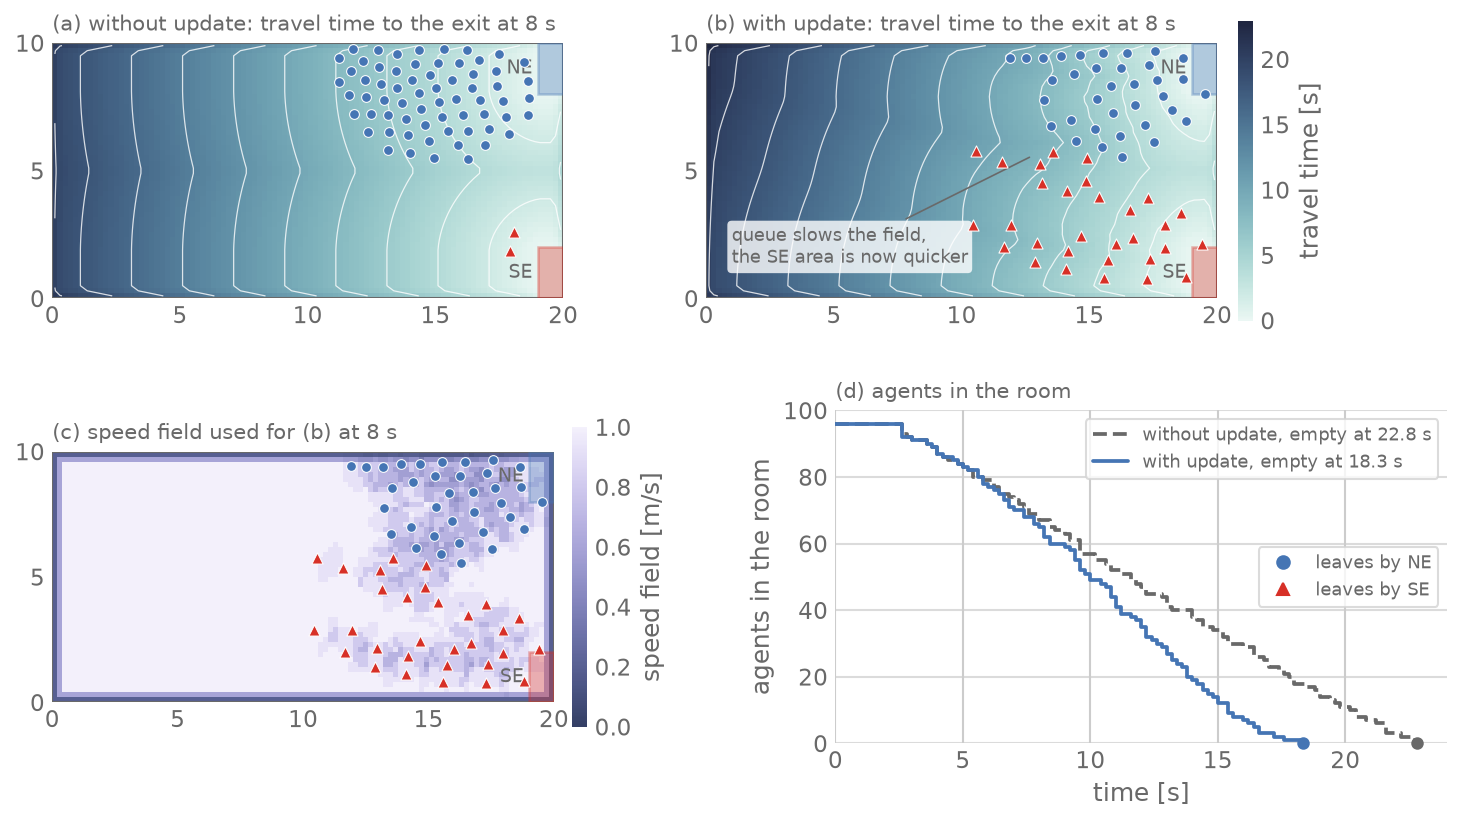
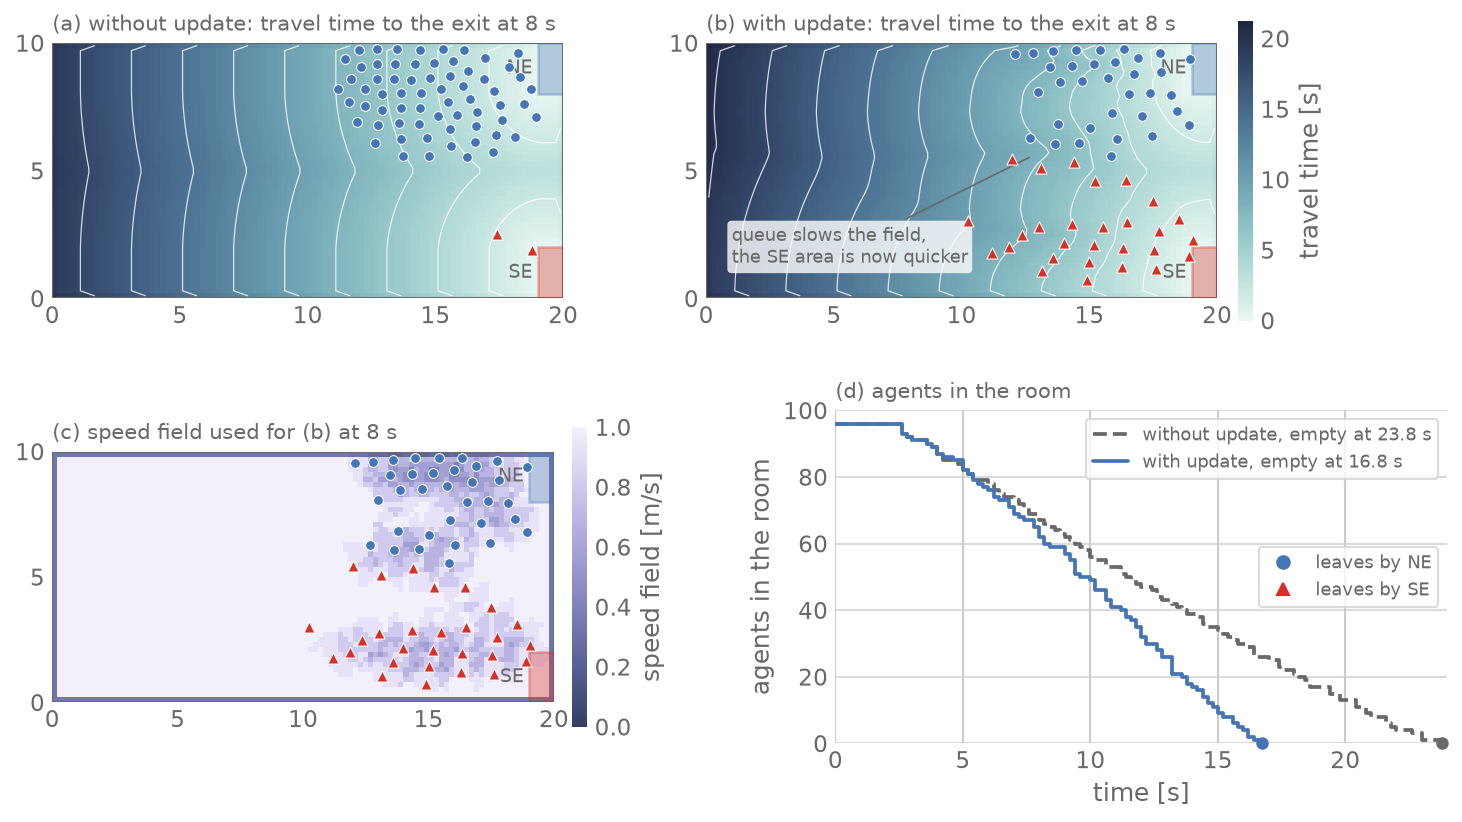
Interpolate the floor field direction (#1762)
* Interpolate the floor field direction

The direction was read from the cell the agent stands in. On the
centre line of a corridor narrower than twice the wall influence
radius the cells on either side point towards each other, so an agent
there changed direction on every step and lost a quarter of its speed
(discussion #1756).

Blend the directions of the four cell centres around the agent
bilinearly. Cells that are not walkable, have no finite time or belong
to the destination are left out; without any, the per-cell direction
is used as before.

directions() and direction() now agree at cell centres up to rounding
only, so their tests compare with a tolerance. The route test started
two agents mirrored about a lattice line; with a symmetric field they
meet head-on and block each other, so one start position moves.

* Default to a wall influence radius of 0.3 m

With a radius of 0.5 m the floor field leads to the centre line of any
passage narrower than 1 m, so a crowd uses a 1 m bottleneck almost in
single file. With 0.3 m, 100 agents pass it at about 1.47 /s instead
of 1.40 /s, and none gets stuck. The price is wall distance at corners
(discussion #1756).

The cell size stays at 0.2 m: 0.1 m cells cost four times the setup
time and memory.

The figures and numbers of the floor field article are regenerated
with the interpolated direction and this radius.

---------

diff --git a/libfloorfield/src/multi_region.rs b/libfloorfield/src/multi_region.rs
@@ -454,9 +454,11 @@ impl MultiRegionFloorfield {
     /// Which way to walk from (x, y) in `region` towards `dest`: a unit
     /// vector, or the zero vector once there.
     ///
-    /// * Downhill along the travel-time gradient, taken at the point's cell or,
-    ///   if that is an obstacle (next to a slanted wall), at the nearest
-    ///   walkable cell within two cells.
+    /// * Downhill along the travel-time gradient, blended bilinearly from the
+    ///   four cell centres around the point (`interpolated_direction`). If
+    ///   none of them counts or they cancel: taken at the point's cell or, if
+    ///   that is an obstacle (next to a slanted wall), at the nearest walkable
+    ///   cell within two cells.
     /// * Inside an area destination (a cell of one of its pieces): zero.
     /// * Inside the cell of a point destination: straight towards the point,
     ///   zero exactly on it.
@@ -480,6 +482,17 @@ impl MultiRegionFloorfield {
             .find(|s| s.region == region && s.cells.binary_search(&cell).is_ok())
             .map(|s| s.kind);
         let query = d.solution.as_ref().expect("solved above").query[region].as_deref();
+        if source.is_none() {
+            let in_source = |c: u32| {
+                d.sources
+                    .iter()
+                    .any(|s| s.region == region && s.cells.binary_search(&c).is_ok())
+            };
+            let blended = interpolated_direction(&self.regions[region], query, (x, y), &in_source);
+            if let Some(dir) = blended {
+                return Ok(dir);
+            }
+        }
         direction_at_cell(&self.regions[region], query, cell, source, (x, y))
             .ok_or_else(|| no_descent(region, (x, y), dest))
     }
@@ -1013,6 +1026,55 @@ fn direction_at_cell(
         return Some(unit(-gx, -gy));
     }
     steepest_descent(g, query, cell)
+}
+
+/// The downhill directions at the four cell centres around `p`, weighted
+/// bilinearly: at a cell border the direction changes smoothly instead of
+/// jumping from one cell's to the next's. Cells that are not walkable, have no
+/// finite time or belong to the destination are left out and the weights
+/// renormalised. `None` if no cell counts or the weighted directions cancel.
+///
+/// The four cells are never separated by a wall: a cell a wall runs through
+/// is not walkable, and a wall along a cell edge has its other side outside
+/// the region.
+fn interpolated_direction(
+    g: &RegionGrid,
+    query: Option<&[f32]>,
+    p: (f64, f64),
+    in_source: &dyn Fn(u32) -> bool,
+) -> Option<(f64, f64)> {
+    let query = query?;
+    let cs = g.grid.cell_size;
+    let fx = (p.0 - g.grid.origin[0]) / cs - 0.5;
+    let fy = (p.1 - g.grid.origin[1]) / cs - 0.5;
+    let (c0, r0) = (fx.floor(), fy.floor());
+    let (tx, ty) = (fx - c0, fy - r0);
+    let (mut sx, mut sy, mut sw) = (0.0, 0.0, 0.0);
+    for (dr, dc, w) in [
+        (0, 0, (1.0 - tx) * (1.0 - ty)),
+        (0, 1, tx * (1.0 - ty)),
+        (1, 0, (1.0 - tx) * ty),
+        (1, 1, tx * ty),
+    ] {
+        let (r, c) = (r0 as i64 + dr, c0 as i64 + dc);
+        if r < 0 || c < 0 || r >= i64::from(g.grid.height) || c >= i64::from(g.grid.width) {
+            continue;
+        }
+        let cell = r as u32 * g.grid.width + c as u32;
+        if !g.walkable(cell) || !query[cell as usize].is_finite() || in_source(cell) {
+            continue;
+        }
+        let centre = g.grid.cell_center(cell);
+        if let Some((dx, dy)) = direction_at_cell(g, Some(query), cell, None, centre) {
+            sx += w * dx;
+            sy += w * dy;
+            sw += w;
+        }
+    }
+    if sw <= 0.0 || sx.hypot(sy) <= 1e-6 * sw {
+        return None;
+    }
+    Some(unit(sx, sy))
 }
 
 /// The error for a `None` from `direction_at_cell`: a bug, reported rather
@@ -2020,8 +2082,23 @@ mod tests {
         );
     }
 
-    /// `directions` works on cells, `direction` on points: they must agree at
-    /// every cell centre, also next to a seam (halo cells hold finite values
+    /// On the centre line of a corridor narrower than twice the wall influence
+    /// radius the cells on either side point towards each other. Blended, they
+    /// lead along the corridor on both sides of the cell border.
+    #[test]
+    fn direction_is_continuous_across_a_cell_border() {
+        let mut ff = build(vec![region(rect(0., 0., 20., 1.))], vec![]).unwrap();
+        let dest = ff
+            .add_area_destination(&[piece(0, rect(18., 0., 19., 1.))])
+            .unwrap();
+        for y in [0.5 - 1e-9, 0.5 + 1e-9] {
+            let (dx, dy) = ff.direction(0, 5.1, y, dest).unwrap();
+            assert!(dx > 0.99 && dy.abs() < 1e-6, "y = {y}: ({dx}, {dy})");
+        }
+    }
+
+    /// `directions` works on cells, `direction` on points: they must agree
+    /// (up to rounding, `direction` blends) at every cell centre, also next to a seam (halo cells hold finite values
     /// but are obstacles) and inside each piece of an area destination.
     #[test]
     fn directions_match_direction_at_every_cell_centre_across_a_seam() {
@@ -2042,7 +2119,9 @@ mod tests {
                 for (cell, (d, t)) in (0u32..).zip(dirs.iter().zip(&tt)) {
                     if t.is_finite() {
                         let (x, y) = grid.cell_center(cell);
-                        assert_eq!(*d, ff.direction(region, x, y, dest).unwrap());
+                        let at = ff.direction(region, x, y, dest).unwrap();
+                        let off = (d.0 - at.0).hypot(d.1 - at.1);
+                        assert!(off < 1e-12, "cell {cell}: {d:?} vs {at:?}");
                     } else {
                         assert!(d.0.is_nan() && d.1.is_nan(), "cell {cell}: {d:?}");
                     }

diff --git a/libfloorfield/src/lib.rs b/libfloorfield/src/lib.rs
@@ -457,7 +457,9 @@ mod tests {
         for (cell, (d, t)) in (0u32..).zip(dirs.iter().zip(&tt)) {
             if t.is_finite() {
                 let (x, y) = grid.cell_center(cell);
-                assert_eq!(*d, ff.region_direction(0, pt(x, y), exit).unwrap());
+                let at = ff.region_direction(0, pt(x, y), exit).unwrap();
+                let off = (d.x - at.x).hypot(d.y - at.y);
+                assert!(off < 1e-12, "cell {cell}: {d:?} vs {at:?}");
             } else {
                 assert!(d.x.is_nan() && d.y.is_nan(), "cell {cell}: {d:?}");
             }

diff --git a/libsimulator/src/floorfield_routing_engine.hpp b/libsimulator/src/floorfield_routing_engine.hpp
@@ -18,7 +18,7 @@ struct FloorfieldOptions {
     // The speed field value is linearly decreased from this influence radius (in meter) to the
     // boundary. Reducing the speed field near walls has the effect that agents are not routed
     // unphysically close to the wall.
-    double wall_influence_radius = 0.5;
+    double wall_influence_radius = 0.3;
 };
 
 /// Placement of one region's floor field grid. All regions share one lattice, so grids of

diff --git a/jupedsim.org/www/articles/floor-fields/make_figures.py b/jupedsim.org/www/articles/floor-fields/make_figures.py
@@ -233,7 +233,7 @@ def travel_time_figure(out):
         bbox=dict(boxstyle="round,pad=0.25", fc="white", ec="none", alpha=0.85),
     )
     ax.annotate(
-        "slower within 0.5 m of a wall:\ncontours bend, arrows turn away",
+        "slower within 0.3 m of a wall:\ncontours bend, arrows turn away",
         xy=(9.5, 0.3),
         xytext=(4.0, 2.2),
         fontsize=8.5,

diff --git a/python_modules/jupedsim/tests/test_route.py b/python_modules/jupedsim/tests/test_route.py
@@ -43,7 +43,7 @@ def test_a_route_with_every_transition_kind_leads_to_the_exit():
             jps.FixedTransition(last, exit_),
         ]
     )
-    for y in (4.0, 6.0):
+    for y in (4.0, 6.5):
         sim.add_agent(room.at(1.0, y), route=route)
     visited = {r.target for r in sim.reached_targets()}
     while sim.agent_count() > 0 and sim.iteration_count() < 5000:

diff --git a/libfloorfield/DESIGN.md b/libfloorfield/DESIGN.md
@@ -227,7 +227,7 @@ The B→A direction is the same set mirrored, because it is sampled from B's own
 ### 3.8 Speed field: walls slow agents down, portals don't
 - **Decision:** Speed is `clamp(dist_to_nearest_wall / wall_influence_radius, MIN_SPEED, 1)` inside the polygon and 0 outside, with `MIN_SPEED = 0.01 m/s`. A cell that a wall runs through is not walkable (see 7.4). The nearest wall is found with an R-tree (`rstar`). This is the region's *default* speed field; users can replace it (see 7.3).
 - **Why:** It keeps routes off walls without blocking narrow doors, and a door is not treated as a wall.
-- **Parameters:** `cell_size` (default 0.2 m) and `wall_influence_radius` (default 0.5 m), set per simulation through `FloorfieldOptions`.
+- **Parameters:** `cell_size` (default 0.2 m) and `wall_influence_radius` (default 0.3 m), set per simulation through `FloorfieldOptions`. In a passage narrower than twice the radius the field leads to the centre line, which lowers the flow through it; a smaller radius costs wall distance at corners (discussion #1756).
 
 ### 3.9 Destinations are registered up front and solved lazily
 - **Decision:** `add_point_destination` snaps to the nearest walkable cell within two cells. `add_area_destination` takes one or more pieces, each inside one region, and agents head for the nearest piece. A destination is solved on first query and then kept.
@@ -235,7 +235,7 @@ The B→A direction is the same set mirrored, because it is sampled from B's own
 - **Trade-off:** The first query for a destination pays the full solve inside a simulation step.
 
 ### 3.10 Query semantics of `direction()`
-- Returns a unit vector downhill along the Sobel gradient. If the point's cell is an obstacle, which happens next to a slanted wall, the nearest walkable cell within two cells is used instead.
+- Returns a unit vector downhill along the Sobel gradient. The field holds one value per cell; the direction at a point is blended bilinearly from the four cell centres around it, so it changes smoothly (why: see 7.6). Cells that are not walkable, have no finite time or belong to the destination are left out. If none counts or the blended directions cancel, the direction of the point's cell is used; if that cell is an obstacle, which happens next to a slanted wall, the nearest walkable cell within two cells.
 - Inside an area destination it returns zero. Inside a point destination's cell it points towards the point, and returns zero exactly on it.
 - On a ridge, where the gradient vanishes between two equally near exits, the steepest-descent neighbour decides.
 - `is_routable` tests the exact polygon, not the grid, so points in holes or walls are rejected.
@@ -269,14 +269,13 @@ Broken internal invariants come back as an `Internal` error instead of a panic, 
 | Passages narrower than two cells | May close: cells a wall runs through are not walkable, so only a passage at least two cells wide is sure to stay open. A closed one fails construction as unreachable | `speed_field_on_grid`, `check_reachability` |
 | Lazy solve on first query | A latency spike in the first step that uses a destination, and again after each speed field change | `MultiRegionFloorfield::solution` |
 | One `f32` array per region per destination | Memory grows with destinations × area | `multi_region.rs` |
-| Direction taken per cell | Directions change in steps at cell borders | `direction()` |
 
 ---
 
 ## 6. Next areas to extend
 
 ### 6.1 Better accuracy
-Options include a second-order FSM, an 8-neighbour stencil, or bilinear interpolation of the gradient between cells for smoother headings.
+Options include a second-order FSM or an 8-neighbour stencil.
 - **How to measure:** Tighten the bounds in `gradient_direction_open_space` and `gradient_direction_behind_wall_corner`, and compare trajectories with `run_scenarios.py`.
 
 ### 6.2 Eager and/or parallel solving
@@ -307,10 +306,10 @@ Allow the use of a finer grid in places where it is needed, potentially using a 
 Items that were on the list above and are now done, with how they were done.
 
 ### 7.1 Field parameters exposed (#1702, `a41e3c374`)
-`cell_size` and `wall_influence_radius` were constants in `floorfield_routing_engine.cpp`. They are now a `FloorfieldOptions` struct (defaults 0.2 m and 0.5 m) passed to `Simulation`, and in Python as `jps.Simulation(..., floorfield_options=jps.FloorfieldOptions(cell_size=..., wall_influence_radius=...))`. The options apply to the whole simulation, not per region. The only check is the existing one in `validate_settings`: both must be positive and finite.
+`cell_size` and `wall_influence_radius` were constants in `floorfield_routing_engine.cpp`. They are now a `FloorfieldOptions` struct (defaults 0.2 m and 0.5 m at the time; the radius is now 0.3 m, see 3.8) passed to `Simulation`, and in Python as `jps.Simulation(..., floorfield_options=jps.FloorfieldOptions(cell_size=..., wall_influence_radius=...))`. The options apply to the whole simulation, not per region. The only check is the existing one in `validate_settings`: both must be positive and finite.
 
 ### 7.2 Travel times and directions exposed to Python (`428715586`)
-The grids go through C++, not straight from Rust to Python. The bridge got `region_directions` next to `region_travel_times` and `region_grid`; `FloorfieldRoutingEngine::travel_times` builds a `TravelTimeGrid` from them, and `Simulation.travel_times(stage_id)` returns one per region (`origin`, `width`, `height`, `cell_size`, `extent`, `values`, `directions`). `directions()` works on cells directly instead of calling the point-based `direction()` once per cell: the solution and the destination's cells are looked up once, and both share `direction_at_cell`, so the results are identical. `Hdf5TrajectoryWriter(write_travel_times=True)` stores all grids in `/travel_times` on close, `Hdf5TrajectoryLoader.load_travel_times()` reads them back in the same form, and the trame viewer draws them (`d44e903a0`, `babca8b5f`).
+The grids go through C++, not straight from Rust to Python. The bridge got `region_directions` next to `region_travel_times` and `region_grid`; `FloorfieldRoutingEngine::travel_times` builds a `TravelTimeGrid` from them, and `Simulation.travel_times(stage_id)` returns one per region (`origin`, `width`, `height`, `cell_size`, `extent`, `values`, `directions`). `directions()` works on cells directly instead of calling the point-based `direction()` once per cell: the solution and the destination's cells are looked up once, and both share `direction_at_cell`, so the results agree at cell centres (up to rounding, since `direction()` blends). `Hdf5TrajectoryWriter(write_travel_times=True)` stores all grids in `/travel_times` on close, `Hdf5TrajectoryLoader.load_travel_times()` reads them back in the same form, and the trame viewer draws them (`d44e903a0`, `babca8b5f`).
 
 ### 7.3 User-defined speed fields (`0d9323ab7`)
 Every region has a *default* speed field (the wall-distance rule of 3.8), and every destination can *override* it per region. In Python:
@@ -325,6 +324,9 @@ Values are a `(height, width)` raster on the region's grid. `checked_speed` requ
 
 ### 7.5 `f32` storage (`75fdf5f43`)
 The fast sweeping solver, speed fields, seam seeds and solved travel times are `f32`, halving the memory per destination and region. Geometry stays `f64` (coordinates, cell size, seam distances, wall tolerances), and gradients are taken in `f64` from the `f32` values. The cxx bridge keeps its `f64` signatures and converts at the boundary, so C++ and Python are unchanged. The seam propagation tolerance `EPS` went from `1e-9` to 1 ms, since an `f32` step at realistic travel times is far larger than `1e-9`. On the 5-floor office example, travel times differ from `f64` by at most 0.26 ms (relative 4e-6).
+
+### 7.6 Interpolated direction (discussion #1756)
+`direction()` took the direction of the cell the point lies in, so it jumped at cell borders. An agent alone on the centre line of a 1 m corridor changed direction by about 80° on every step and walked at 0.91 m/s instead of 1.2 m/s. It now blends the directions of the four cell centres around the point bilinearly (`interpolated_direction`, see 3.10). `directions()` still reports the per-cell direction, which is what the blend gives at a cell centre.
 
 ---
 

diff --git a/jupedsim.org/www/articles/floor-fields.md b/jupedsim.org/www/articles/floor-fields.md
@@ -51,7 +51,7 @@ simulation = jps.Simulation(
     geometry=geo,
     floorfield_options=jps.FloorfieldOptions(
         cell_size=0.2,  # m, the default
-        wall_influence_radius=0.5,  # m, the default
+        wall_influence_radius=0.3,  # m, the default
     ),
 )
 ```
@@ -195,9 +195,9 @@ while simulation.agent_count() > 0:
     simulation.iterate()
 ```
 
-Without the update, 92 of the 96 agents queue at the north-east area, the one
-closest to them, and the room is empty after 22.8 s. With it, 36 agents switch to
-the south-east area once the queue builds up, and the room is empty after 18.3 s.
+Without the update, 93 of the 96 agents queue at the north-east area, the one
+closest to them, and the room is empty after 23.8 s. With it, 34 agents switch to
+the south-east area once the queue builds up, and the room is empty after 16.8 s.
 
 ```{figure} floor-fields/congestion.gif
 :alt: Animation of both runs, one above the other: without the update nearly all agents queue at the north-east area; with it, part of the crowd turns to the south-east area
@@ -211,7 +211,7 @@ agents crowd.
 :alt: Four panels: travel time to the exit at 8 s without and with the update, the updated speed field at 8 s, and the number of agents in the room over time for both runs
 
 Why agents switch. (a) Without the update the travel time ignores the crowd,
-and 92 of the 96 agents head for the north-east area. (b) With the update the queue
+and 93 of the 96 agents head for the north-east area. (b) With the update the queue
 slows the speed field (c), the travel time through the queue grows, and for the
 agents in the south part of the crowd the south-east area becomes quicker. (d)
 Agents in the room over time.
